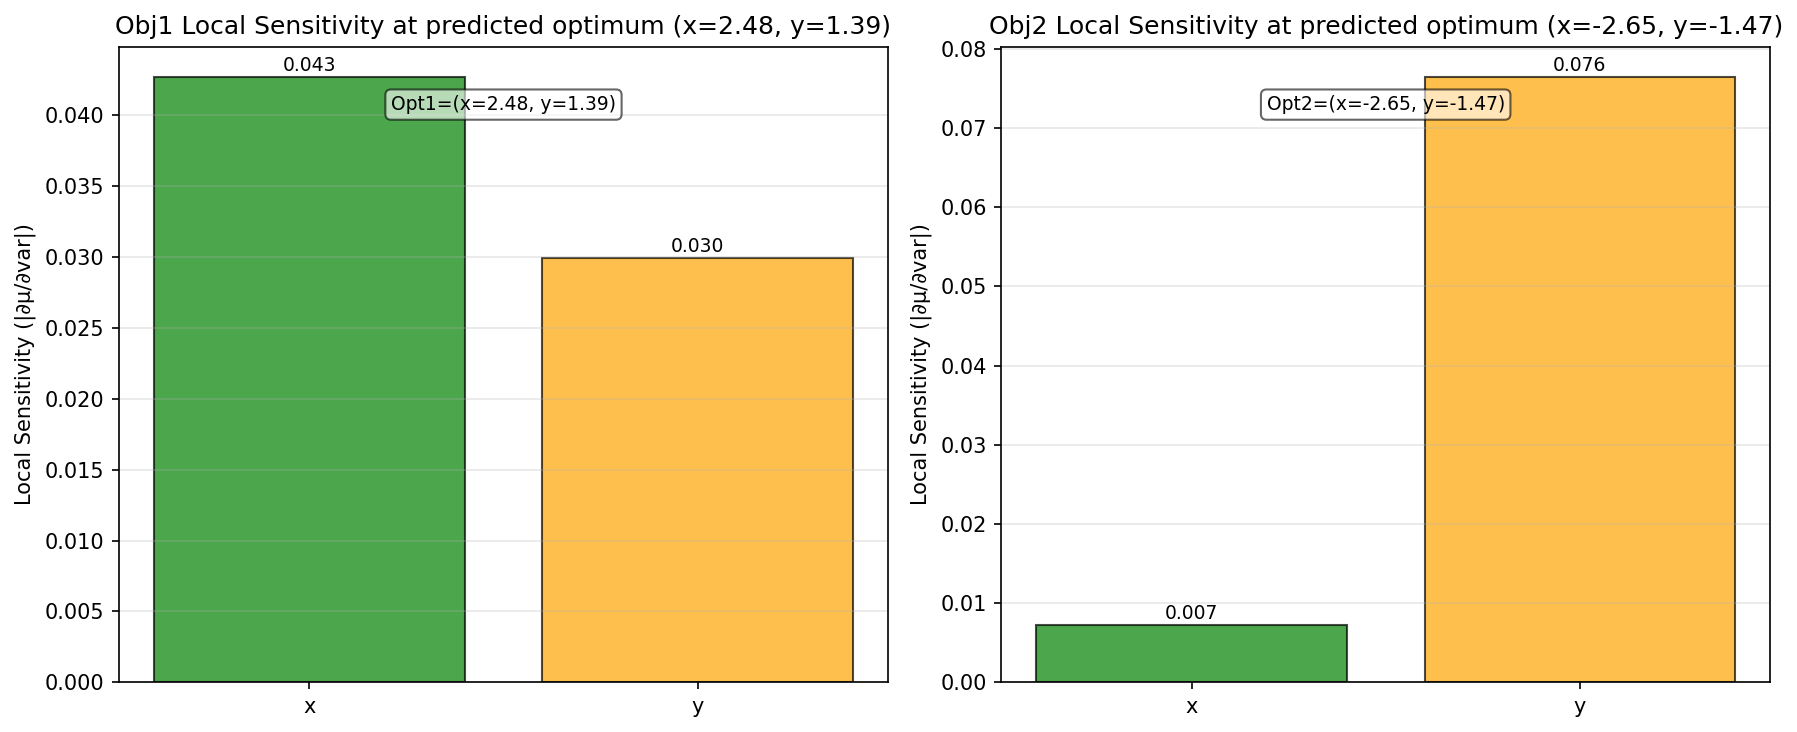
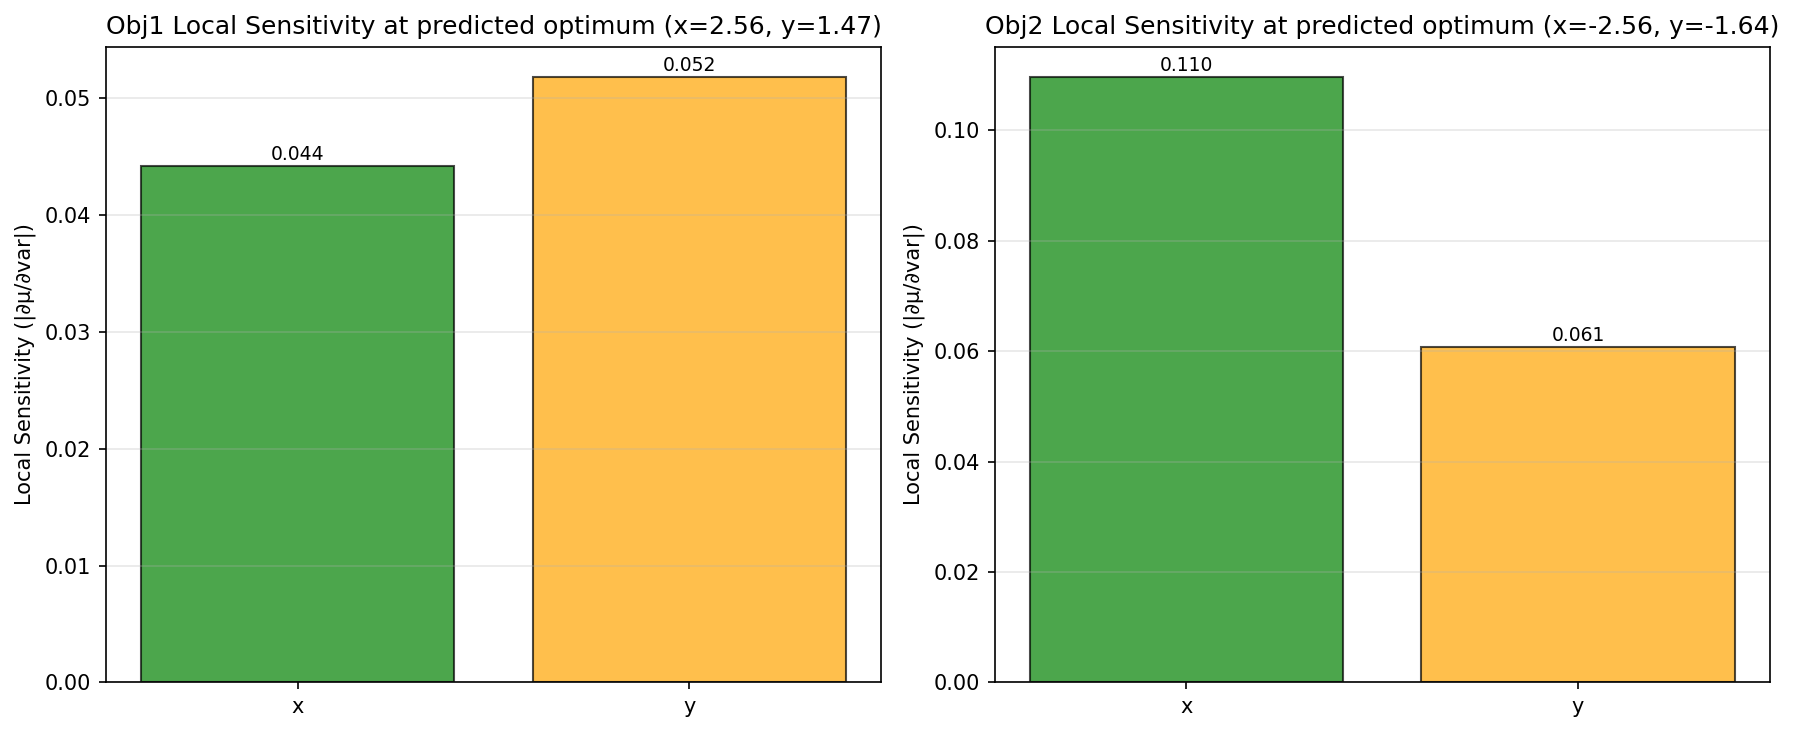
Update local sensitivity plotting and remove partial dependence plot

diff --git a/run_optuna_moo.py b/run_optuna_moo.py
@@ -447,18 +447,20 @@ def plot_local_sensitivity(study: optuna.study.Study, output: str = "local_sensi
     opt2 = grid[np.argmin(mu2_grid)]  # (x*, y*) for objective 2
 
     # Finite-difference gradients at each predicted optimum
-    eps = 1e-4
+    # Use eps as one quarter of the exploration range per dimension
+    eps_x = (x_max - x_min) / 4.0
+    eps_y = (y_max - y_min) / 4.0
     def finite_diff(gpr, point):
-        px = point.copy(); px[0] += eps
-        mx = point.copy(); mx[0] -= eps
-        py = point.copy(); py[1] += eps
-        my = point.copy(); my[1] -= eps
+        px = point.copy(); px[0] += eps_x
+        mx = point.copy(); mx[0] -= eps_x
+        py = point.copy(); py[1] += eps_y
+        my = point.copy(); my[1] -= eps_y
         f_px = gpr.predict(px.reshape(1, -1))[0]
         f_mx = gpr.predict(mx.reshape(1, -1))[0]
         f_py = gpr.predict(py.reshape(1, -1))[0]
         f_my = gpr.predict(my.reshape(1, -1))[0]
-        dfdx = (f_px - f_mx) / (2 * eps)
-        dfdy = (f_py - f_my) / (2 * eps)
+        dfdx = (f_px - f_mx) / (2 * eps_x)
+        dfdy = (f_py - f_my) / (2 * eps_y)
         return dfdx, dfdy
 
     grad_x_obj1, grad_y_obj1 = finite_diff(gpr1, opt1)
@@ -476,8 +478,6 @@ def plot_local_sensitivity(study: optuna.study.Study, output: str = "local_sensi
     ax.grid(True, alpha=0.3, axis="y")
     for bar, val in zip(bars1, vals1):
         ax.text(bar.get_x() + bar.get_width()/2, val + 0.01*max(vals1), f"{val:.3f}", ha="center", fontsize=9)
-    ax.annotate(f"Opt1=(x={opt1[0]:.2f}, y={opt1[1]:.2f})", xy=(0.5, 0.9), xycoords="axes fraction", ha="center", fontsize=9,
-                bbox=dict(boxstyle="round", facecolor="white", alpha=0.6))
 
     ax = axes[1]
     vals2 = [abs(grad_x_obj2), abs(grad_y_obj2)]
@@ -487,79 +487,10 @@ def plot_local_sensitivity(study: optuna.study.Study, output: str = "local_sensi
     ax.grid(True, alpha=0.3, axis="y")
     for bar, val in zip(bars2, vals2):
         ax.text(bar.get_x() + bar.get_width()/2, val + 0.01*max(vals2), f"{val:.3f}", ha="center", fontsize=9)
-    ax.annotate(f"Opt2=(x={opt2[0]:.2f}, y={opt2[1]:.2f})", xy=(0.5, 0.9), xycoords="axes fraction", ha="center", fontsize=9,
-                bbox=dict(boxstyle="round", facecolor="white", alpha=0.6))
 
     plt.tight_layout()
     plt.savefig(output, dpi=150, bbox_inches="tight")
     print(f"Saved local sensitivity figure to: {output}")
-
-
-def plot_partial_dependence(study: optuna.study.Study, output: str = "partial_dependence.png"):
-    trials = [t for t in study.trials if t.values is not None]
-    if len(trials) < 5:
-        print("Not enough trials for partial dependence. Skipping.")
-        return
-
-    X = np.array([[t.params["x"], t.params["y"]] for t in trials])
-    y1 = np.array([t.values[0] for t in trials])
-    y2 = np.array([t.values[1] for t in trials])
-
-    kernel = C(1.0, (1e-3, 1e3)) * RBF(length_scale=1.0, length_scale_bounds=(1e-2, 1e2)) + WhiteKernel(noise_level=1e-5, noise_level_bounds=(1e-10, 1e1))
-    gpr1 = GaussianProcessRegressor(kernel=kernel, normalize_y=True)
-    gpr2 = GaussianProcessRegressor(kernel=kernel, normalize_y=True)
-    gpr1.fit(X, y1)
-    gpr2.fit(X, y2)
-
-    # Calculate mean values for annotation
-    mean_x = X[:, 0].mean()
-    mean_y = X[:, 1].mean()
-
-    grid_x = np.linspace(-5, 5, 100)
-    grid_y = np.linspace(-5, 5, 100)
-
-    pdp_x_obj1 = []
-    pdp_x_obj2 = []
-    for x_val in grid_x:
-        X_slice = np.column_stack([np.full(len(X), x_val), X[:, 1]])
-        mu1_vals = gpr1.predict(X_slice)
-        mu2_vals = gpr2.predict(X_slice)
-        pdp_x_obj1.append(mu1_vals.mean())
-        pdp_x_obj2.append(mu2_vals.mean())
-
-    pdp_y_obj1 = []
-    pdp_y_obj2 = []
-    for y_val in grid_y:
-        X_slice = np.column_stack([X[:, 0], np.full(len(X), y_val)])
-        mu1_vals = gpr1.predict(X_slice)
-        mu2_vals = gpr2.predict(X_slice)
-        pdp_y_obj1.append(mu1_vals.mean())
-        pdp_y_obj2.append(mu2_vals.mean())
-
-    fig, axes = plt.subplots(1, 2, figsize=(12, 5))
-    ax = axes[0]
-    ax.plot(grid_x, pdp_x_obj1, "b-", linewidth=2, label=f"x effect (y averaged over samples)")
-    ax.plot(grid_y, pdp_y_obj1, "orange", linewidth=2, label=f"y effect (x averaged over samples)")
-    ax.scatter(X[:, 0], y1, alpha=0.3, s=20, color="gray", label="Samples")
-    ax.set_xlabel("Input Value")
-    ax.set_ylabel("Obj1 (PDP)")
-    ax.set_title(f"Obj1 Partial Dependence Plot\n(x: y fixed at mean={mean_y:.2f}, y: x fixed at mean={mean_x:.2f})")
-    ax.legend(loc="best", fontsize=8)
-    ax.grid(True, alpha=0.3)
-
-    ax = axes[1]
-    ax.plot(grid_x, pdp_x_obj2, "b-", linewidth=2, label=f"x effect (y averaged over samples)")
-    ax.plot(grid_y, pdp_y_obj2, "orange", linewidth=2, label=f"y effect (x averaged over samples)")
-    ax.scatter(X[:, 0], y2, alpha=0.3, s=20, color="gray", label="Samples")
-    ax.set_xlabel("Input Value")
-    ax.set_ylabel("Obj2 (PDP)")
-    ax.set_title(f"Obj2 Partial Dependence Plot\n(x: y fixed at mean={mean_y:.2f}, y: x fixed at mean={mean_x:.2f})")
-    ax.legend(loc="best", fontsize=8)
-    ax.grid(True, alpha=0.3)
-
-    plt.tight_layout()
-    plt.savefig(output, dpi=150, bbox_inches="tight")
-    print(f"Saved partial dependence figure to: {output}")
 
 
 def main():
@@ -567,7 +498,6 @@ def main():
     parser.add_argument("--trials", type=int, default=20, help="Number of trials")
     parser.add_argument("--output", type=str, default="pareto.png", help="Output image file for Pareto front")
     parser.add_argument("--slices-output", type=str, default="slices.png", help="Output image file for GPR slice plots with confidence bands")
-    parser.add_argument("--partial-dependence", type=str, default="partial_dependence.png", help="Output image file for partial dependence plot (PDP)")
     parser.add_argument("--surfaces-output", type=str, default="gpr_surfaces.png", help="Output image file for 2D GPR surfaces (mean and variance)")
     parser.add_argument("--partial-correlation", type=str, default="partial_correlation.png", help="Output image file for partial correlation plot")
     parser.add_argument("--local-sensitivity", type=str, default="local_sensitivity.png", help="Output image file for local sensitivity plot")
@@ -582,7 +512,6 @@ def main():
 
     args.output = to_results_path(args.output)
     args.slices_output = to_results_path(args.slices_output)
-    args.partial_dependence = to_results_path(args.partial_dependence)
     args.surfaces_output = to_results_path(args.surfaces_output)
     args.partial_correlation = to_results_path(args.partial_correlation)
     args.local_sensitivity = to_results_path(args.local_sensitivity)
@@ -613,7 +542,6 @@ def main():
     try:
         plot_partial_correlation(study, output=args.partial_correlation)
         plot_local_sensitivity(study, output=args.local_sensitivity)
-        plot_partial_dependence(study, output=args.partial_dependence)
     except Exception as e:
         print("Sensitivity analysis plots failed:", e)
     # Plot 2D GPR surfaces (mean and variance)
